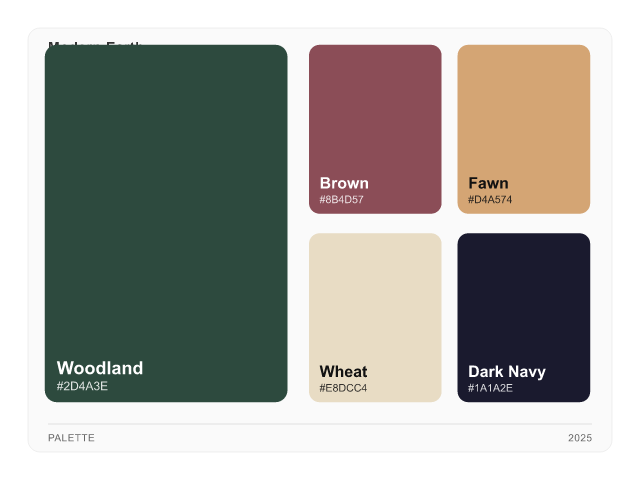
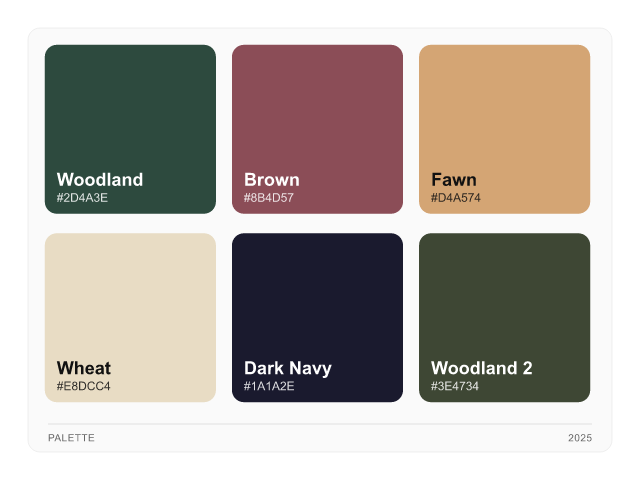
updating title management

diff --git a/src/cli.ts b/src/cli.ts
@@ -42,7 +42,6 @@ OPTIONS
 
   Typography
     --font <family>         Font family stack
-    --title <text>          Optional title above swatches
     --footer-left <text>    Footer left text (default: ${DEFAULT_OPTIONS.footerLeft})
     --footer-center <text>  Footer center text (default: ${DEFAULT_OPTIONS.footerCenter})
     --footer-right <text>   Footer right text (default: ${DEFAULT_OPTIONS.footerRight})
@@ -64,7 +63,7 @@ OPTIONS
 EXAMPLES
   palettd "#FAF5E9" "#392525" "#683226" --format png --out palette.png
   palettd --input colors.json --format svg > palette.svg
-  palettd "#ff6600" "#0b1320" --title "Acme Palette" --footer-right "01"
+  palettd "#ff6600" "#0b1320" --footer-left "Acme Palette" --footer-right "01"
 
 INPUT FILE FORMAT
   {
@@ -89,7 +88,6 @@ interface CliOptions {
   padding: number;
   gap: number;
   font: string;
-  title?: string;
   footerLeft: string;
   footerCenter: string;
   footerRight: string;
@@ -236,11 +234,6 @@ function parseArgs(args: string[]): CliOptions {
       i++;
       continue;
     }
-    if (arg === '--title') {
-      options.title = args[++i];
-      i++;
-      continue;
-    }
     if (arg === '--footer-left') {
       options.footerLeft = args[++i];
       i++;
@@ -363,7 +356,6 @@ function run(): void {
     stroke: options.stroke,
     strokeOpacity: options.strokeOpacity,
     font: options.font,
-    title: options.title,
     footerLeft: options.footerLeft,
     footerCenter: options.footerCenter,
     footerRight: options.footerRight,

diff --git a/tests/board.test.ts b/tests/board.test.ts
@@ -60,12 +60,6 @@ describe('generateBoard', () => {
     expect(hexMatches1).toBeGreaterThan(hexMatches2);
   });
 
-  it('includes title when provided', () => {
-    const result = generateBoard(TEST_COLORS, { title: 'My Palette' });
-
-    expect(result.svg).toContain('My Palette');
-  });
-
   it('includes footer text', () => {
     const result = generateBoard(TEST_COLORS, {
       footerLeft: 'LEFT',
@@ -133,11 +127,11 @@ describe('generateSvg', () => {
     const svg = generateSvg(TEST_COLORS, {
       width: 1024,
       height: 768,
-      title: 'Test',
+      footerLeft: 'Test Footer',
     });
 
     expect(svg).toContain('width="1024"');
-    expect(svg).toContain('Test');
+    expect(svg).toContain('Test Footer');
   });
 });
 
@@ -181,8 +175,8 @@ describe('deterministic output', () => {
   });
 
   it('produces different output for different options', () => {
-    const svg1 = generateSvg(TEST_COLORS, { title: 'A' });
-    const svg2 = generateSvg(TEST_COLORS, { title: 'B' });
+    const svg1 = generateSvg(TEST_COLORS, { footerLeft: 'A' });
+    const svg2 = generateSvg(TEST_COLORS, { footerLeft: 'B' });
 
     expect(svg1).not.toBe(svg2);
   });

diff --git a/src/layout/templates.ts b/src/layout/templates.ts
@@ -152,7 +152,7 @@ function getTemplate(count: number): TemplateCell[] {
  * Default board options
  */
 export const DEFAULT_OPTIONS: Required<
-  Omit<BoardOptions, 'title' | 'providedNames' | 'format'>
+  Omit<BoardOptions, 'providedNames' | 'format'>
 > & { format: 'svg' } = {
   format: 'svg',
   width: 640,
@@ -208,14 +208,11 @@ export function generateLayout(
   const footerHeight = 28;
   const contentPadding = opts.padding * 0.6;
 
-  // Title takes up top portion if present
-  const titleHeight = opts.title ? 32 : 0;
-
-  // Content area within the card (excluding padding, title, and footer)
+  // Content area within the card (excluding padding and footer)
   const contentX = contentPadding;
-  const contentY = contentPadding + titleHeight;
+  const contentY = contentPadding;
   const contentWidth = cardWidth - contentPadding * 2;
-  const contentHeight = cardHeight - contentPadding * 2 - footerHeight - titleHeight;
+  const contentHeight = cardHeight - contentPadding * 2 - footerHeight;
 
   // Convert template cells to absolute positions
   const swatches: SwatchLayout[] = template.slice(0, colorCount).map((cell) => {

diff --git a/src/render/svg.ts b/src/render/svg.ts
@@ -110,26 +110,6 @@ function renderFooter(
 }
 
 /**
- * Render title if provided
- */
-function renderTitle(
-  layout: Layout,
-  options: {
-    title?: string;
-    font: string;
-  }
-): string {
-  if (!options.title) return '';
-
-  const { card } = layout;
-  const fontSize = 14;
-  const y = card.y + 24;
-  const x = card.x + 20;
-
-  return `    <text x="${x}" y="${y}" font-family="${escapeXml(options.font)}" font-size="${fontSize}" font-weight="600" fill="#333333" letter-spacing="0.5">${escapeXml(options.title)}</text>`;
-}
-
-/**
  * Render the complete SVG board
  */
 export function renderSvg(
@@ -155,12 +135,6 @@ export function renderSvg(
   lines.push(
     `  <rect x="${card.x}" y="${card.y}" width="${card.width}" height="${card.height}" rx="${card.radius}" fill="${cardBg}" stroke="${stroke}" stroke-opacity="${strokeOpacity}" stroke-width="1" />`
   );
-
-  // Title if present
-  const title = renderTitle(layout, { title: opts.title, font });
-  if (title) {
-    lines.push(title);
-  }
 
   // Render swatches
   lines.push('  <g>');

diff --git a/src/types.ts b/src/types.ts
@@ -148,8 +148,6 @@ export interface BoardOptions {
   strokeOpacity?: number;
   /** Font family stack */
   font?: string;
-  /** Optional title */
-  title?: string;
   /** Footer left text */
   footerLeft?: string;
   /** Footer center text */
